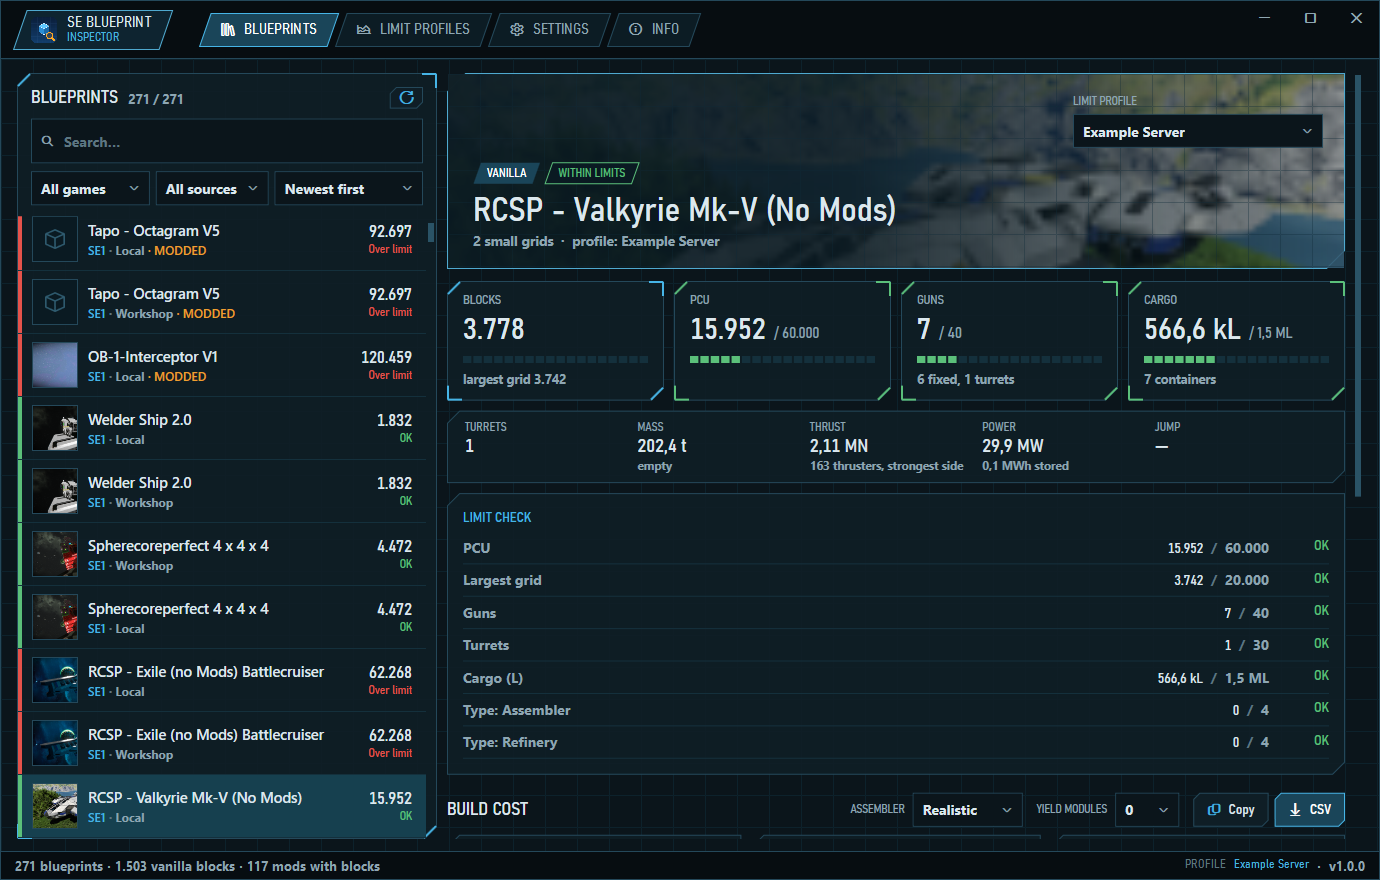
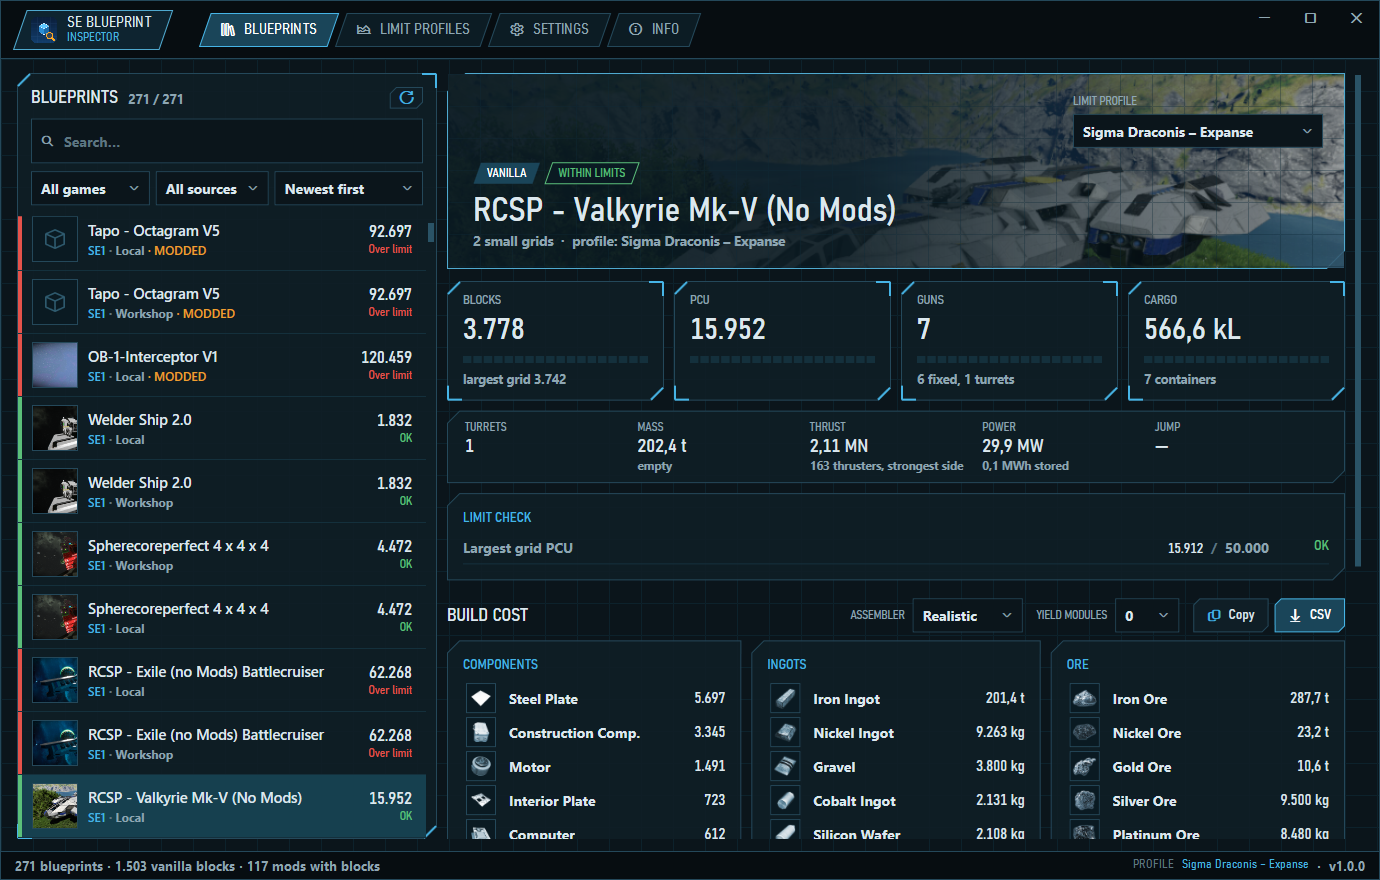
docs: fresh screenshots, website screenshot and tester feedback form

diff --git a/README.md b/README.md
@@ -49,6 +49,18 @@ checked against vanilla or server limits, with modded weapons and containers cou
 | **Icons** | Real game icons | The same game icons |
 | **Privacy** | Never connects to the internet | Files are read locally, nothing is uploaded |
 
+<details>
+<summary><b>Website screenshot</b></summary>
+
+<br>
+
+<img src="docs/images/website.png" alt="SE Blueprint Inspector website showing a blueprint's stats and build cost" width="900">
+
+</details>
+
+> [!TIP]
+> **Tried it?** Tell us how it went — [give feedback](https://github.com/Rathio12/SE_BlueprintEditor/issues/new?template=tester_feedback.yml) (takes a minute).
+
 ## Features
 
 | | |
